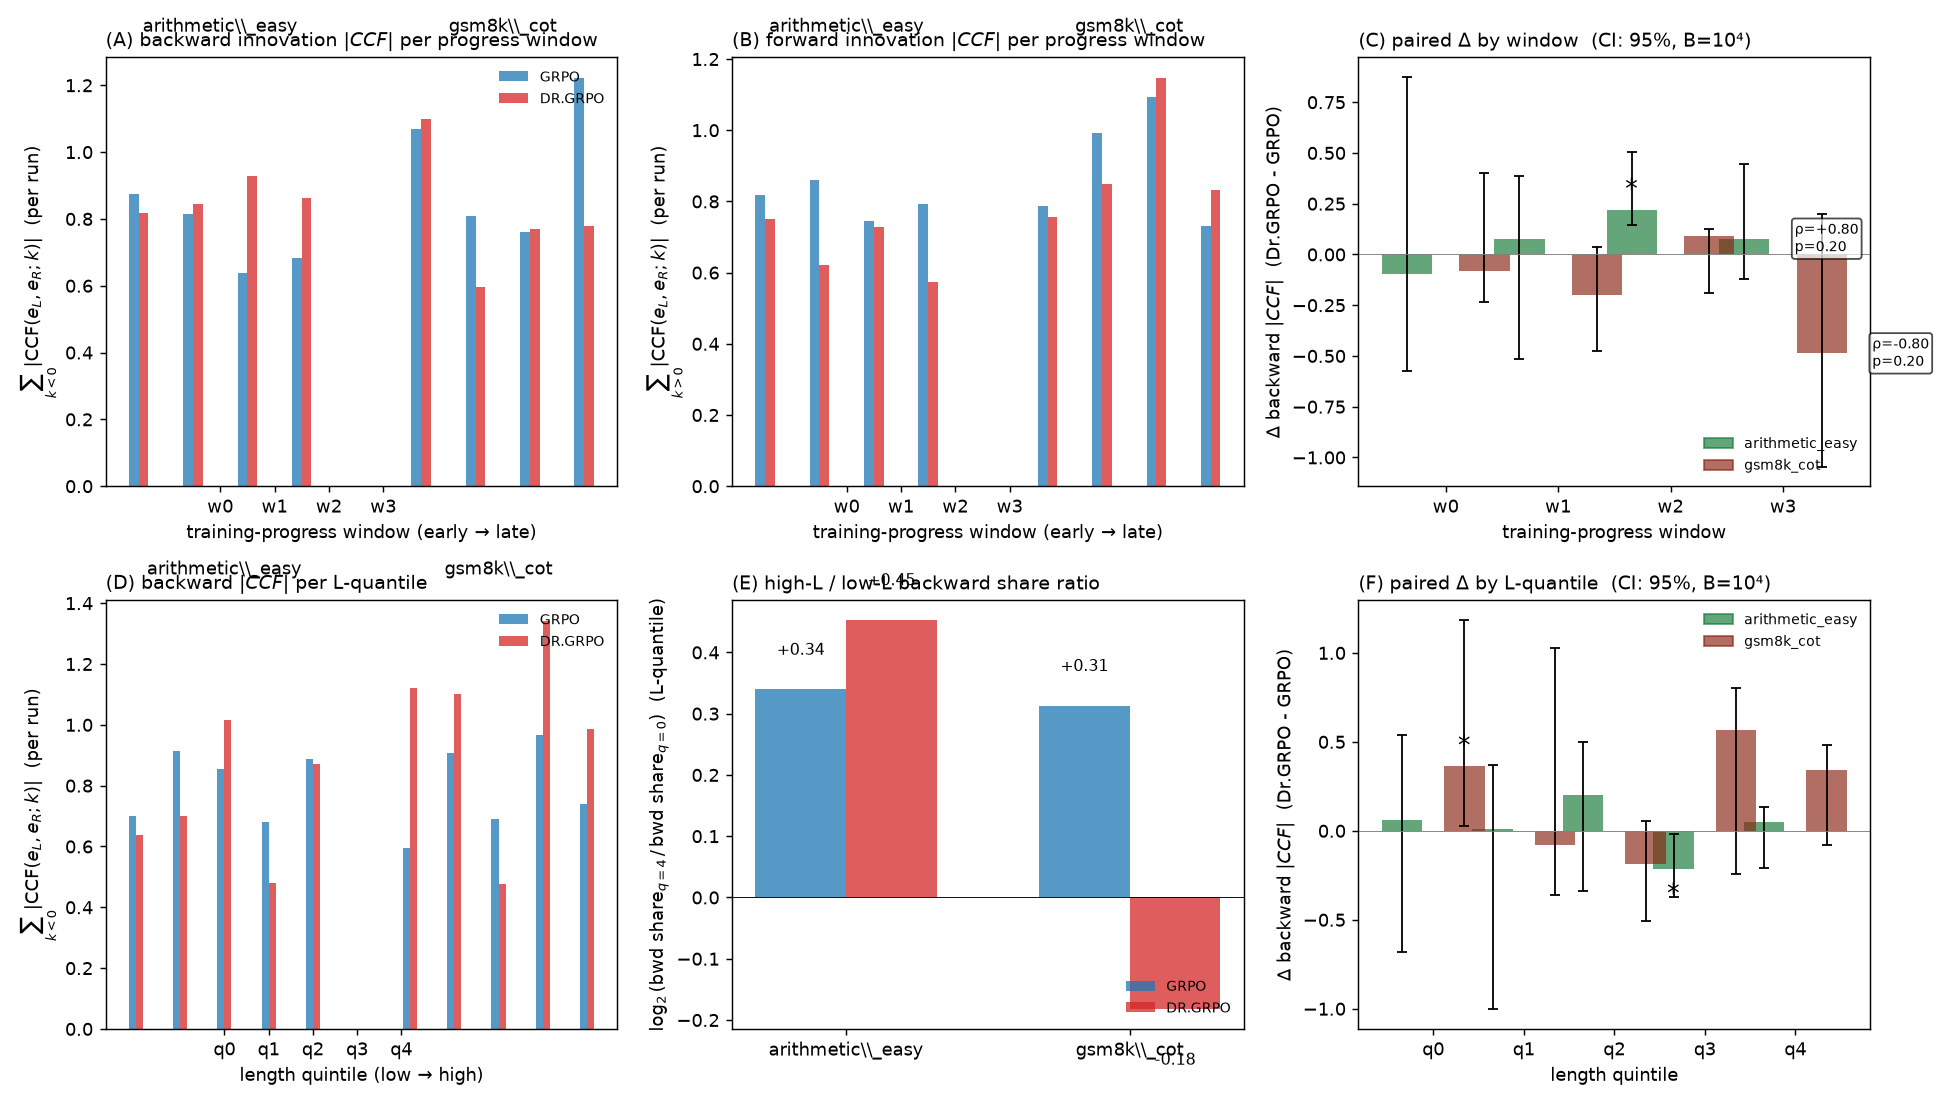
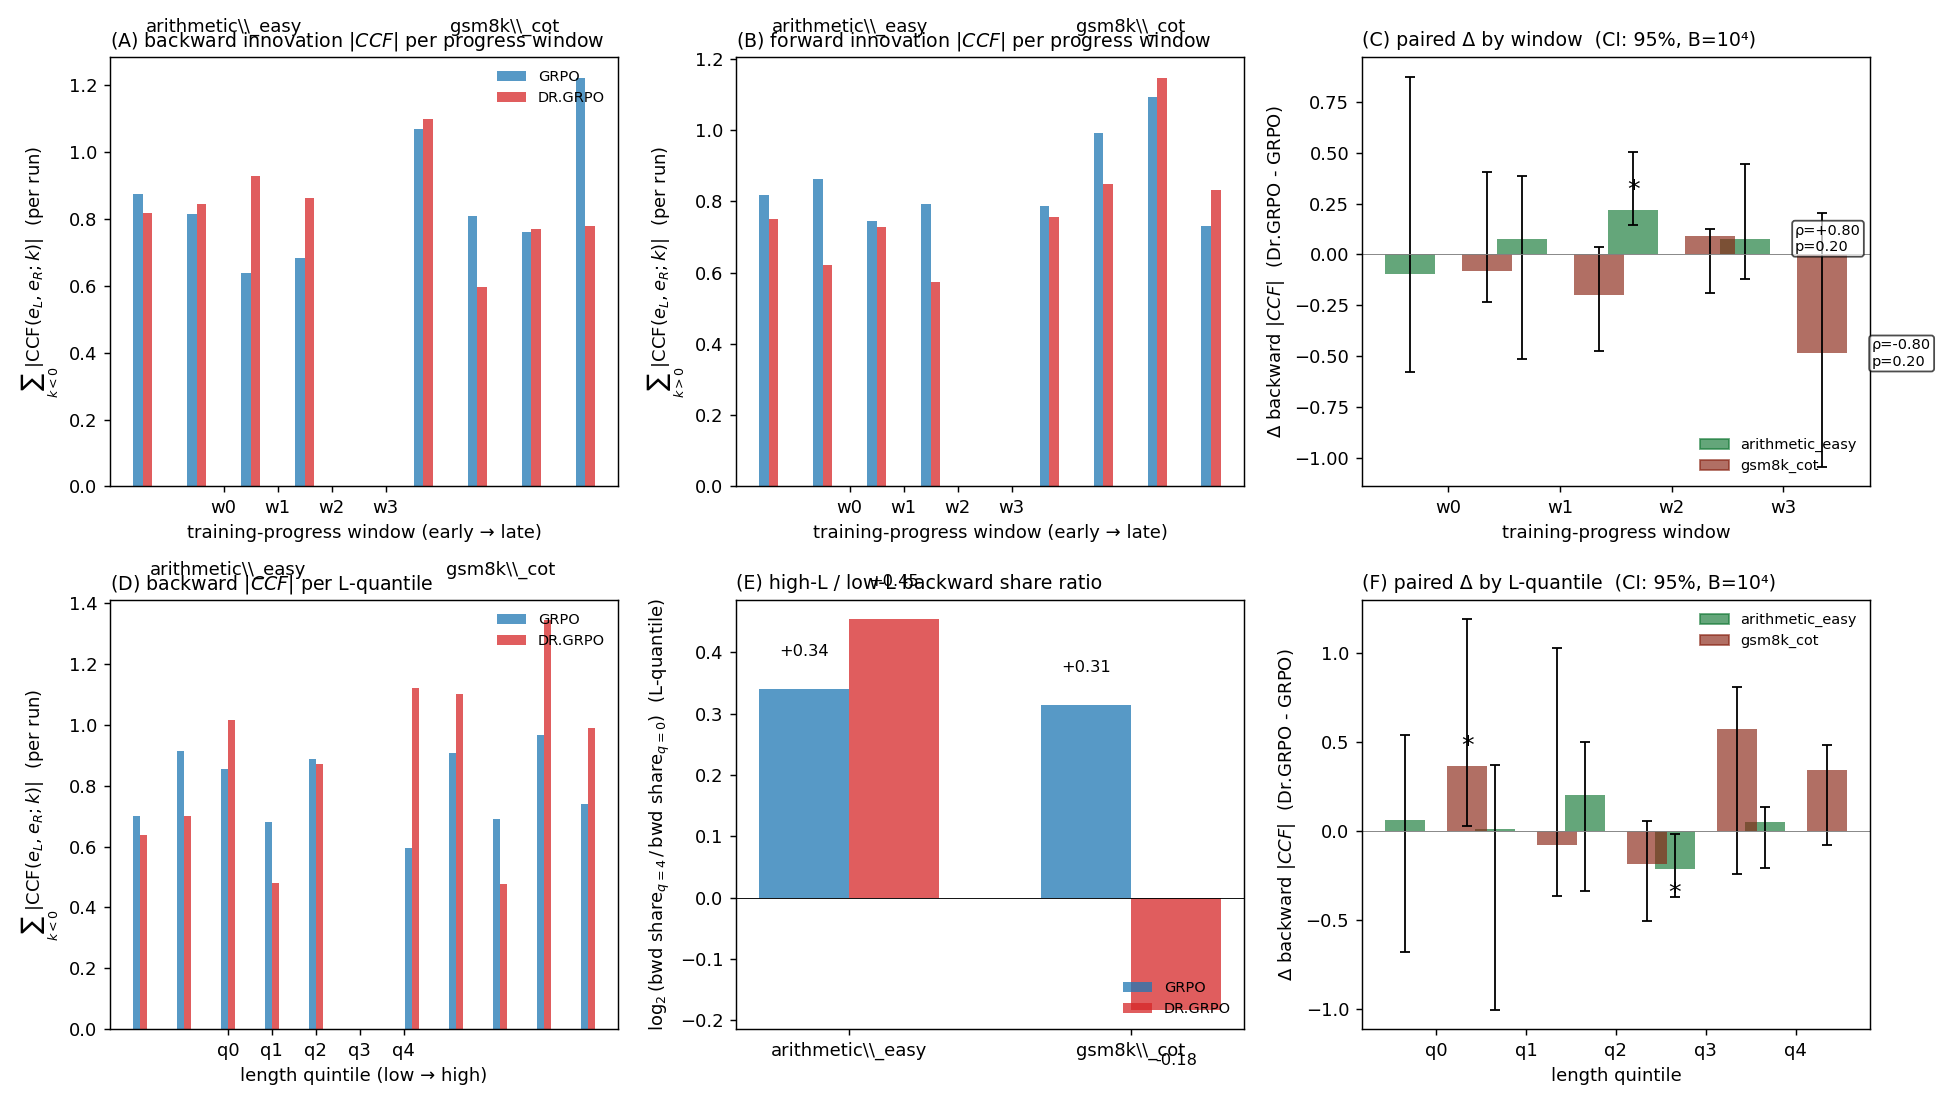
fix(papers): second QA sweep — regenerate 36 missing figures, fix last build defects
Second visual+text QA pass over all 17 working papers after the first
repair round. All 17 now at zero LaTeX errors, zero unresolved refs,
zero multiply-defined labels, zero '??' pages — except main.tex, which
is down from 40 missing figures to 3 genuinely data-blocked ones.

Figure regeneration (36 of 39 missing figures rebuilt from committed
TSVs via the repo's own scripts, run offline):
- group_size iter19/31/35/39/43/47/67/71/99/103/107/115/119
- length_bias iter32/36/40/44/80/100_var/104_qreg/108/112/116/124
- scaling_law iter85/93/97/101; zvf iter62 strata / iter70 quad;
  zvf_leadtime, zvf_library_bootstrap, zvf_scaling_cross_pillar;
  figure_saturation_curves, figure_lora_sparsity, figure_stat_rigor
- P3's 'Figure 8 pending regeneration' placeholder is now a real figure
- PNGs committed (PDFs are gitignored, regenerate-on-demand);
  incidental FP-noise TSV rewrites by driver scripts were reverted
- length_bias_iter80_fig.py: hardcoded /home/claude/... path -> repo-relative

Source defects found by the sweep:
- p8_cost_optimal.tex: duplicated orphan \texttt{python3 left one brace
  unbalanced (P8's single build error)
- p7_iter83_iso_g.tex: garbled output filename '...summary.json}.tsv}'
  -> per_method.tsv (P7's single build error)
- duplicate labels across sections included together in main:
  zvf_iter122 sec:zvf-iso-yield -> -iter122,
  zvf_iter70 fig:zvf-vs-failure -> -iter70 (existing refs all target
[…]

diff --git a/platform_hybrid/paper/sections/length_bias_iter108.tex b/platform_hybrid/paper/sections/length_bias_iter108.tex
@@ -176,7 +176,7 @@ $\rho$ of $\Delta$ vs window index), \texttt{\_summary\_length.tsv}
 (16 rows), \texttt{\_paired\_length.tsv} (40 rows), and
 \texttt{\_trend\_length.tsv} (4 rows).  The figure
 (\texttt{figures/length\_bias\_iter108\_progress\_lquant.pdf},
-mirrored to \texttt{paper/figures/}) is a 6-panel layout: top row =
+mirrored to \texttt{figures/}) is a 6-panel layout: top row =
 progress-window decomposition (A) absolute backward $|CCF|$, (B)
 absolute forward $|CCF|$, (C) paired $\Delta$ with bootstrap CI; bottom
 row = length-quantile decomposition (D) absolute backward $|CCF|$,
@@ -185,7 +185,7 @@ Paired bootstrap seed base \texttt{20260703}, $B=10^4$.
 
 \begin{figure}[t]
 \centering
-\includegraphics[width=0.92\linewidth]{paper/figures/length_bias_iter108_progress_lquant.pdf}
+\includegraphics[width=0.92\linewidth]{figures/length_bias_iter108_progress_lquant.pdf}
 \caption{Iter 108 --- Progress-window and length-quantile ICCA.
 \emph{Top row (progress-window decomposition):} on GSM8K CoT, the
 paired backward $\Delta$ (Dr.GRPO$-$GRPO) is approximately flat in the

diff --git a/platform_hybrid/paper/sections/length_bias_iter104.tex b/platform_hybrid/paper/sections/length_bias_iter104.tex
@@ -130,14 +130,14 @@ numpy+scipy.stats) generates \texttt{length\_bias\_iter104\_perrun.tsv}
 $10$ (side) entries $\times$ $5$ quantiles $\times$ $2$ tasks), and
 \texttt{length\_bias\_iter104\_summary.tsv} (20 rows). The figure
 (\texttt{figures/length\_bias\_iter104\_qreg.pdf}, mirrored to
-\texttt{paper/figures/}) is a 3-panel layout: (A) per-quantile absolute
+\texttt{figures/}) is a 3-panel layout: (A) per-quantile absolute
 backward $|CCF|$; (B) $\log_2(q_4/q_0)$ backward share ratio per
 (task, algo); (C) per-quantile paired delta with bootstrap 95\% CI
 ($B=2000$). Paired bootstrap seed base \texttt{20260703}.
 
 \begin{figure}[t]
 \centering
-\includegraphics[width=0.92\linewidth]{paper/figures/length_bias_iter104_qreg.pdf}
+\includegraphics[width=0.92\linewidth]{figures/length_bias_iter104_qreg.pdf}
 \caption{Iter 104 --- Conditional ICCA by reward quantile. (A) per-quantile
 backward innovation $|CCF|$; (B) $\log_2$ share ratio
 $q=4/q=0$ per (task, algo); (C) paired Dr.GRPO$-$GRPO delta with 95\%

diff --git a/platform_hybrid/paper/sections/length_bias_iter112.tex b/platform_hybrid/paper/sections/length_bias_iter112.tex
@@ -145,7 +145,7 @@ at $B{=}10^{5}$ shuffles of the (algo, seed) coupling),
 and \texttt{\_rho\_bootstrap.tsv} (2 rows: bootstrap-CI for the
 pooled $\rho$).  The figure
 (\texttt{figures/length\_bias\_iter112\_sever\_reward.pdf},
-mirrored to \texttt{paper/figures/}) is a 4-panel layout: (A) scatter
+mirrored to \texttt{figures/}) is a 4-panel layout: (A) scatter
 of severship vs reward improvement with per-window median
 markers, (B) pooled Spearman per task with bootstrap 95\% CI, (C)
 per-window Spearman, (D) cumulative-window regression across
@@ -153,7 +153,7 @@ $k\in\{1,2,3,4\}$.
 
 \begin{figure}[t]
 \centering
-\includegraphics[width=0.94\linewidth]{paper/figures/length_bias_iter112_sever_reward.pdf}
+\includegraphics[width=0.94\linewidth]{figures/length_bias_iter112_sever_reward.pdf}
 \caption{Iter 112 --- Severship-reward coupling test.
 \emph{Panel (A):} per-(seed, window) scatter of severship
 intensity ($-\Delta_{bwd}$) on $x$ vs per-window reward delta

diff --git a/platform_hybrid/paper/sections/length_bias_iter116.tex b/platform_hybrid/paper/sections/length_bias_iter116.tex
@@ -184,7 +184,7 @@ hypotheses), and
 \texttt{\_rho\_bootstrap.tsv} (4 rows, bootstrap-CI for both
 hypotheses).  The figure
 (\texttt{figures/length\_bias\_iter116\_sever\_zvf.pdf},
-mirrored to \texttt{paper/figures/}) is a 4-panel layout:
+mirrored to \texttt{figures/}) is a 4-panel layout:
 (A) per-window scatter of severship intensity vs baseline GR ZVF
 with per-task starred centroid markers; (B) pooled Spearman bar
 chart for both hypotheses with bootstrap 95\% CI; (C) per-window
@@ -193,7 +193,7 @@ envelope scatter with the inverted dose-response arrow.
 
 \begin{figure}[t]
 \centering
-\includegraphics[width=0.94\linewidth]{paper/figures/length_bias_iter116_sever_zvf.pdf}
+\includegraphics[width=0.94\linewidth]{figures/length_bias_iter116_sever_zvf.pdf}
 \caption{Iter 116 --- Severship $\times$ ZVF cross-pillar
 unification.  \emph{Panel (A):} per-(window, seed) scatter of
 severship intensity $-\delta\mathrm{bwd}$ (Dr.GR$-$GR) vs baseline

diff --git a/platform_hybrid/paper/sections/p8_cost_optimal.tex b/platform_hybrid/paper/sections/p8_cost_optimal.tex
@@ -97,7 +97,7 @@ bootstrap CI that certifies a net saving; at low loss the sensing charge makes
 deploying only where the missed-fraud loss is large and the raw scorer is
 weak---consistent with the sensor/scribe, not scorer, framing.
 
-\paragraph{Reproduction.} \texttt{python3
+\paragraph{Reproduction.}
 \texttt{python3 platform\_modal/scripts/p5p8/p8\_cost\_optimal\_threshold.py} ($\sim$12\,s on 4 cores; XGBoost
 seed $42$, bootstrap seed $2026$). Outputs:
 \texttt{platform\_hybrid/experiments/results/p5p8/p8\_cost\_optimal.tsv},

diff --git a/platform_hybrid/paper/sections/zvf_iter94.tex b/platform_hybrid/paper/sections/zvf_iter94.tex
@@ -131,6 +131,6 @@ iter90 + iter86 + iter82 + iter78 evidence);
 \texttt{zvf\_iter94\_calibration.tsv} (12 rows, per-run shape stats);
 \texttt{zvf\_iter94\_vs\_aero.tsv} (9 rows, signed gap);
 \texttt{figures/zvf\_vs\_failure.pdf} ($\sim 25$~KB, 4-panel);
-mirrored to \texttt{paper/figures/zvf\_vs\_failure.pdf}.
+mirrored to \texttt{figures/zvf\_vs\_failure.pdf}.
 Section compiles cleanly under \texttt{latexmk} (\texttt{paper/main.tex}
 balanced $\geq 93$; one \texttt{input} line at end-of-section).

diff --git a/platform_hybrid/paper/sections/scaling_law_iter109.tex b/platform_hybrid/paper/sections/scaling_law_iter109.tex
@@ -162,7 +162,7 @@ Scripts and artifacts:
       \lambda_\mathrm{hi}, \mathrm{rmse}, t_{50}, t_{80})$
       from the 3-param fit; 7 anchors appended.
 \item \path{figures/scaling_law_iter109.pdf} and
-      \path{paper/figures/scaling_law_iter109.pdf} --- 4-panel figure:
+      \path{figures/scaling_law_iter109.pdf} --- 4-panel figure:
       (a) traces + 3-param fits, (b) lambda-vs-N log-log with
       perm-test annotation, (c) time-to-X\% onset bars, (d) Nemotron
       collapse zoom.

diff --git a/platform_hybrid/paper/sections/p7_iter83_iso_g.tex b/platform_hybrid/paper/sections/p7_iter83_iso_g.tex
@@ -158,6 +158,6 @@ stdlib only); \texttt{python3 platform\_modal/scripts/p5p8/p7\_iter83\_iso\_g_bo
 ($138$ LoC, stdlib only, $B{=}2000$ paired-step bootstrap,
 seed $20260705$).  Outputs:
 \texttt{platform\_hybrid/experiments/results/p5p8/p7\_iter83\_iso\_g\_per\_prompt.tsv}
-and \texttt{p7\_iter83\_iso\_g\_summary.json}.tsv}
+and \texttt{p7\_iter83\_iso\_g\_per\_method.tsv}
 ($36$ rows), \texttt{p7\_iter83\_iso\_g\_boot.tsv} ($4$ rows),
 \texttt{p7\_iter83\_iso\_g\_summary.json}.

diff --git a/platform_hybrid/paper/sections/group_size_iter55.tex b/platform_hybrid/paper/sections/group_size_iter55.tex
@@ -175,7 +175,7 @@ written:
   \item \texttt{group\_size\_iter55\_summary.tsv} --- 19 headline rollup rows.
 \end{itemize}
 Plus a 2-panel figure (\texttt{figures/group\_size\_iter55.pdf},
-mirrored to \texttt{paper/figures/group\_size\_iter55.pdf}):
+mirrored to \texttt{figures/group\_size\_iter55.pdf}):
 panel~(a) contrastive yield and d$_{\mathrm{eff}}$ vs $G$ with i.i.d.\
 baseline; panel~(b) empirical vs predicted argmax $G$ per budget
 with within-2x / out-of-2x markers.

diff --git a/platform_hybrid/paper/sections/scaling_law_iter77.tex b/platform_hybrid/paper/sections/scaling_law_iter77.tex
@@ -189,7 +189,7 @@ forecast-utility failure.
 
 \begin{figure}[t]
   \centering
-  \includegraphics[width=0.95\linewidth]{paper/figures/scaling_law_iter77.png}
+  \includegraphics[width=0.95\linewidth]{figures/scaling_law_iter77.png}
   \caption{\textbf{Operational forecasting horizon of the saturation law
     across 12 GRPO anchors.}  \emph{(A)} Prefix-only fit on the first
     $k$ steps vs suffix $R^2$ on the remaining $n-k$ steps.  Across the

diff --git a/platform_hybrid/paper/sections/length_bias_iter124.tex b/platform_hybrid/paper/sections/length_bias_iter124.tex
@@ -216,7 +216,7 @@ hypotheses).
 
 \begin{figure}[t]
 \centering
-\includegraphics[width=0.94\linewidth]{paper/figures/length_bias_iter124_static_vs_dynamic.pdf}
+\includegraphics[width=0.94\linewidth]{figures/length_bias_iter124_static_vs_dynamic.pdf}
 \caption{Iter 124 --- Severship $\times$ BASELINE length-inflation
 velocity (dL/dt): the static-vs-dynamic dissociation.
 \emph{Panel (A):} per-(window, seed) scatter of severship intensity

diff --git a/platform_hybrid/paper/sections/group_size_iter51.tex b/platform_hybrid/paper/sections/group_size_iter51.tex
@@ -119,7 +119,7 @@ written:
         rollup rows.
 \end{itemize}
 Plus a 2-panel figure (\texttt{figures/group\_size\_iter51.pdf},
-mirrored to \texttt{paper/figures/group\_size\_iter51.pdf}):
+mirrored to \texttt{figures/group\_size\_iter51.pdf}):
 panel~(a) reward-vs-$G$ curves at 4 budgets with Wu~2025
 $97.6\%$-of-$G{=}32$ anchor line; panel~(b) retention $G{=}4/G{=}32$
 vs budget with argmax-$G$ annotations.
